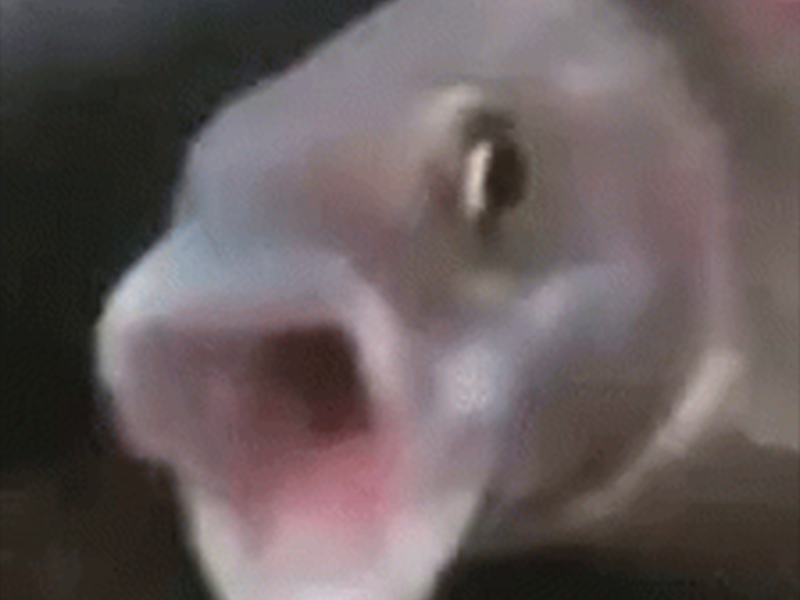
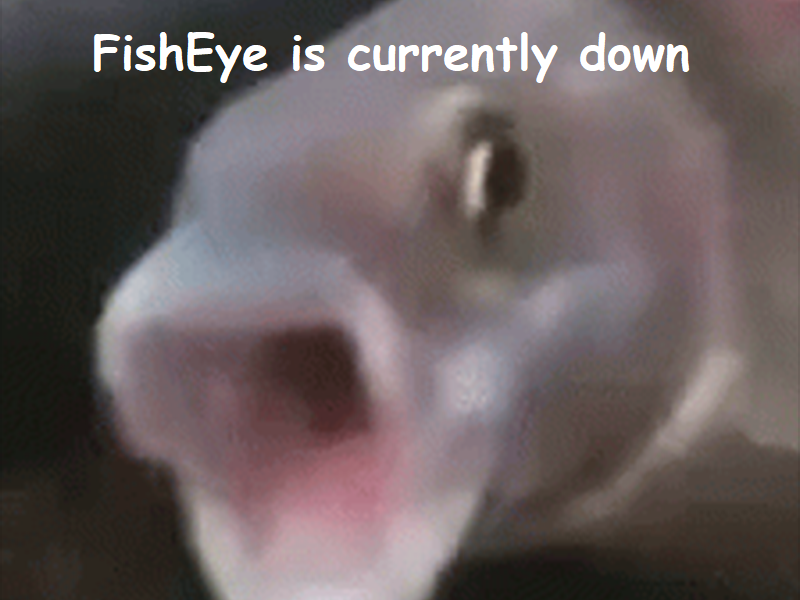
Added CameraFallback component to hero-section.tsx

Changed region(s): [[0.4375, 0.06, 0.875, 0.15], [0.0938, 0.03, 0.4062, 0.15]]

diff --git a/components/hero-section.tsx b/components/hero-section.tsx
@@ -6,6 +6,11 @@ import Image from 'next/image'
 import { TextEffect } from '@/components/ui/text-effect'
 import { AnimatedGroup } from '@/components/ui/animated-group'
 import { HeroHeader } from './header'
+import CameraFallback from "@/components/camera-fallback"
+
+
+
+
 
 const transitionVariants = {
     item: {
@@ -128,10 +133,7 @@ export default function HeroSection() {
                                         height="1440"
                                     />
                                     */}
-                                    <img
-                                        src="http://192.168.1.119/stream"
-                                        alt="ESP32-CAM Fish Eye View"
-                                        className="aspect-[15/8] w-full rounded-2xl object-cover"/>
+                                    <CameraFallback />
                                     {/* <Image
                                         className="z-2 border-border/25 aspect-15/8 relative rounded-2xl border dark:hidden"
                                         src="/mail2-light.png"

diff --git a/components/camera-fallback.tsx b/components/camera-fallback.tsx
@@ -1,0 +1,16 @@
+"use client"
+
+import { useState } from "react"
+
+export default function CameraFallback() {
+  const [failed, setFailed] = useState(false)
+
+  return (
+    <img
+      src={failed ? "/pictures/pogfish.png" : "http://192.168.1.119/stream"}
+      alt="ESP32-CAM Fish Eye View"
+      className="aspect-[15/8] w-full max-h-[420px] rounded-2xl object-contain bg-black"
+      onError={() => setFailed(true)}
+    />
+  )
+}
